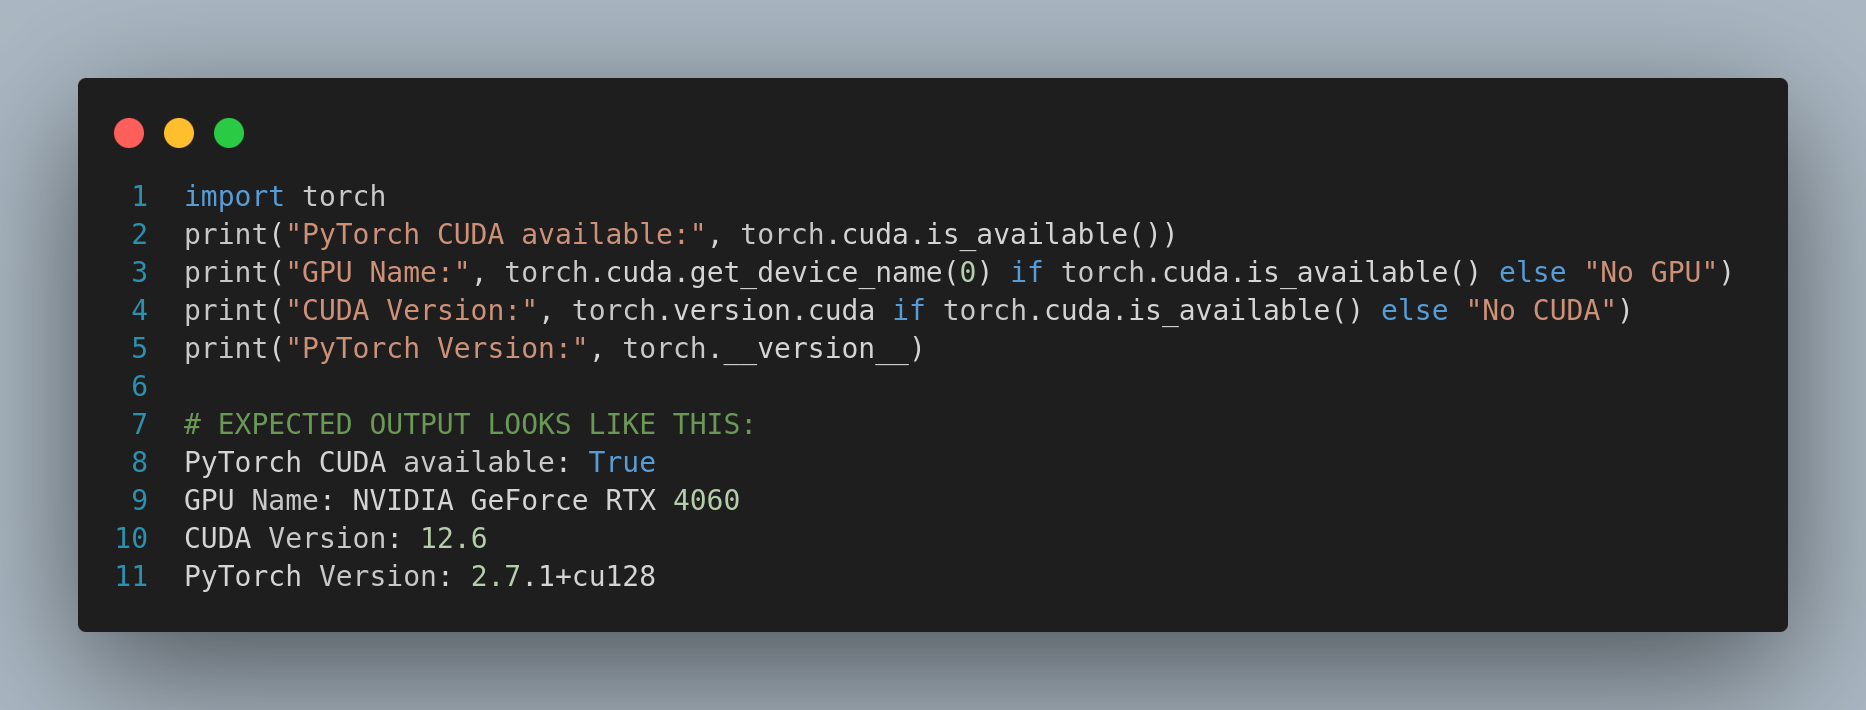
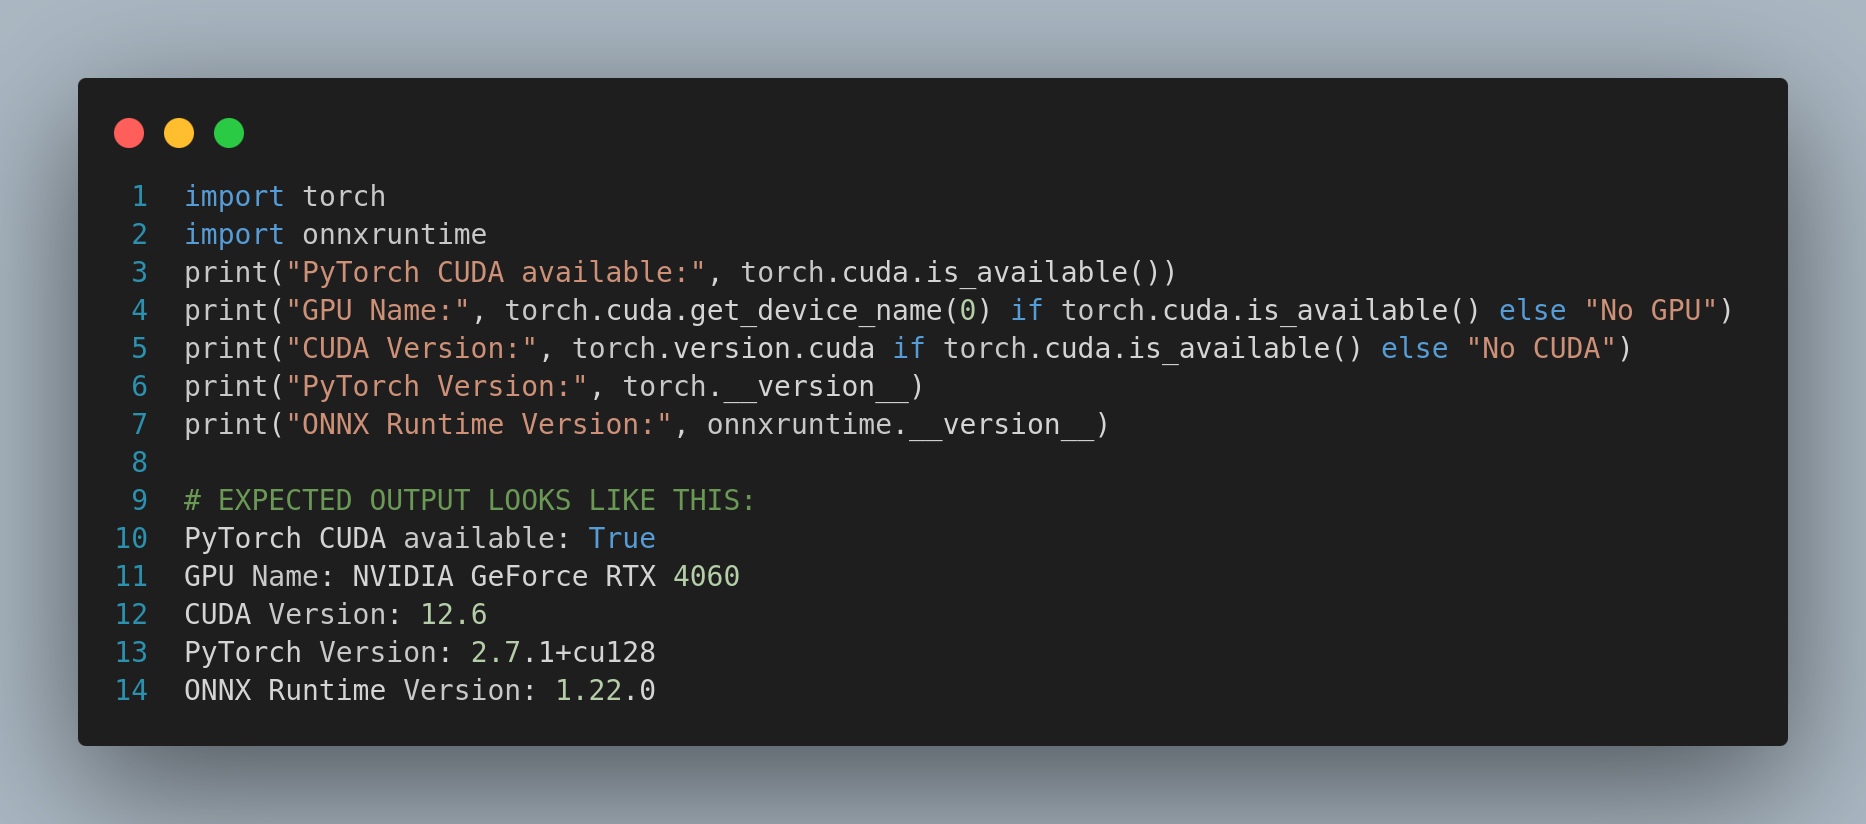
update week9

Changed region(s): [[0.0311, 0.093, 0.9636, 0.5268], [0.0311, 0.5268, 0.9636, 0.9296], [0.4041, 0.3099, 0.4352, 0.3408]]

diff --git a/docs/blog/2025/week9/index.html b/docs/blog/2025/week9/index.html
@@ -703,7 +703,7 @@
                             />
                         </div>
 
-                        <p class="mb-1">2. Verify ONNX Runtime Uses GPU</p>
+                        <p class="mb-1 mt-1">2. Verify ONNX Runtime Uses GPU</p>
                         <div
                             style="
                                 display: flex;
@@ -720,7 +720,7 @@
                                 style="border-radius: 10px 0 0 10px"
                             />
                         </div>
-                        <p class="mb-1">3. Monitoring GPU Usages</p>
+                        <p class="mb-1 mt-1">3. Monitoring GPU Usages</p>
                         <code>watch nvidia-smi</code>
                         <div
                             style="
@@ -739,7 +739,51 @@
                             />
                         </div>
 
-                        <p class="mb-1">4. Compare Speed (CPU vs GPU)</p>
+                        <p class="mb-1 mt-1">4. Compare Speed (CPU vs GPU)</p>
+                        <p class="mb-2">
+                            After verifying the versions and confirming CUDA
+                            availability, I processed
+                            <strong>17,000</strong>
+                            <a
+                                href="https://jderobot.github.io/RoboticsAcademy/exercises/AutonomousCars/follow_line/"
+                                target="_blank"
+                                rel="noopener noreferrer"
+                                >follow-line exercise</a
+                            >
+                            images using both CPU and GPU modes. The performance
+                            difference is shown below:
+                        </p>
+                        <div
+                            style="
+                                display: flex;
+                                flex-direction: column;
+                                justify-content: center;
+                                align-items: center;
+                                width: 100%;
+                            "
+                        >
+                            <img
+                                src="/gsoc2025-Md_Shariar_Kabir/assets/img/week-9/week-9-image-10-code-6.png"
+                                alt="week-9-img-6"
+                                width="100%"
+                                style="border-radius: 10px 0 0 10px"
+                            />
+                        </div>
+                        <p class="mt-1 mb-1">
+                            The GPU mode is significantly faster, processing all
+                            the <strong>17,000</strong> images in
+                            <code>45.95</code> seconds compared to
+                            <code>85.90</code> seconds on CPU.
+                        </p>
+                        <p class="mb-1">
+                            This confirms that the ONNX Runtime is correctly
+                            utilizing the GPU for inference, providing a
+                            substantial performance boost over CPU execution.
+                        </p>
+                        <p class="mb-1">
+                            This solution is now the standard setup for future
+                            RoboticsAcademy DL exercises that use ONNX models.
+                        </p>
 
                         <!-- TODO: SUMMARY -->
                         <h5>🏷 Summary:</h5>
@@ -878,6 +922,21 @@
                                 target="_blank"
                                 rel="noopener noreferrer"
                                 >PyTorch</a
+                            >
+                        </p>
+                        <p
+                            style="
+                                display: flex;
+                                align-items: center;
+                                gap: 10px;
+                            "
+                        >
+                            [9]
+                            <a
+                                href="https://jderobot.github.io/RoboticsAcademy/exercises/AutonomousCars/follow_line/"
+                                target="_blank"
+                                rel="noopener noreferrer"
+                                >follow-line exercise</a
                             >
                         </p>
                     </div>
